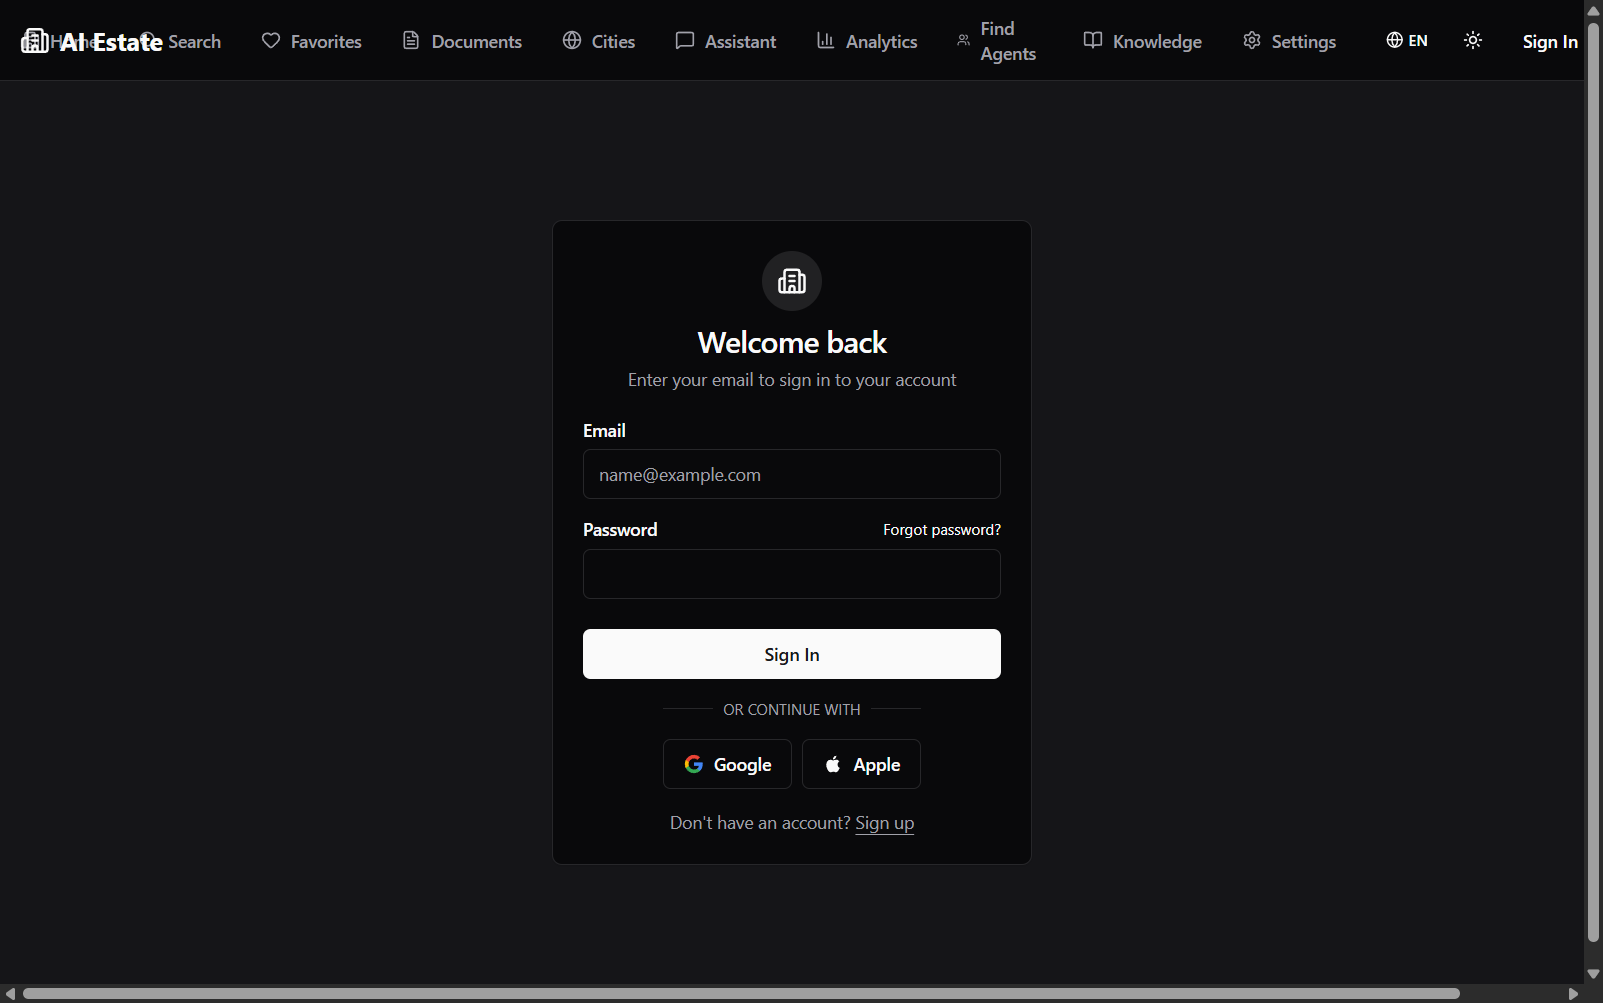
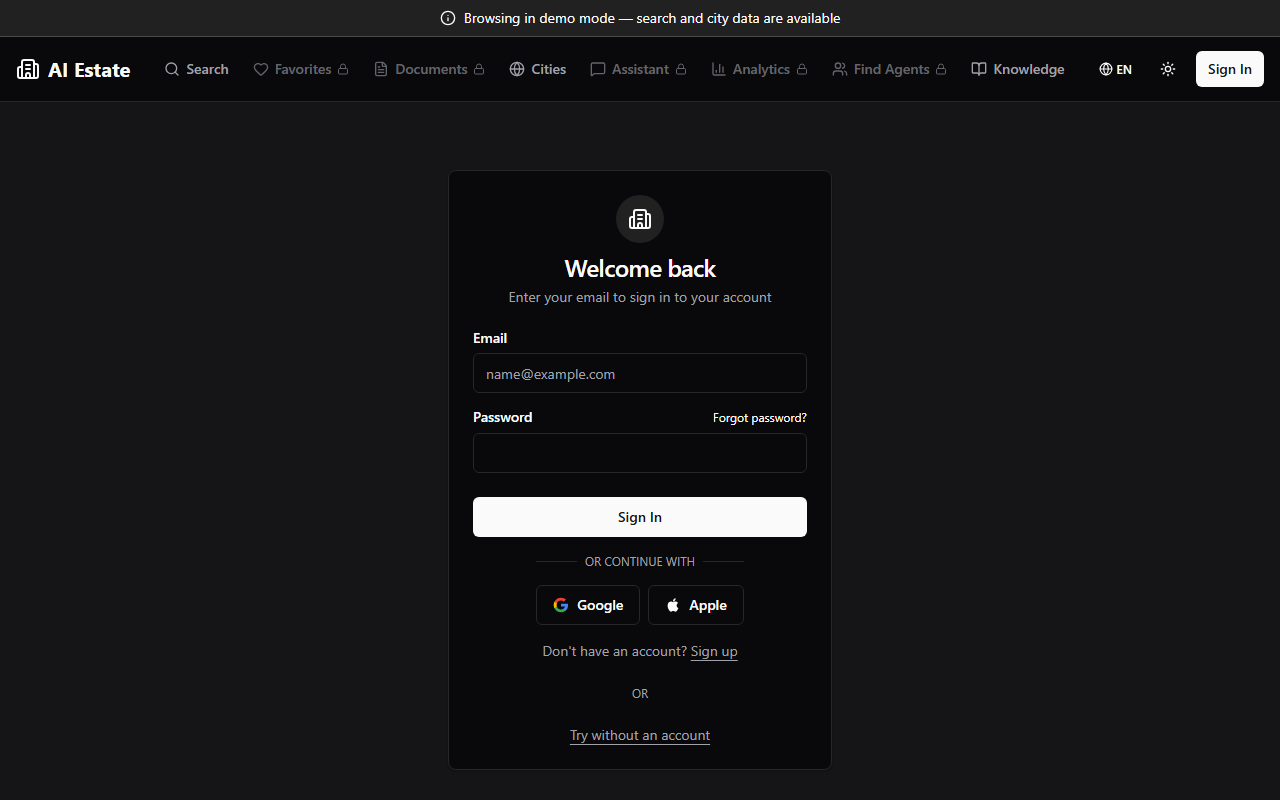
docs: add dark-themed screenshots, fix screenshot script path
Replace old screenshots with new dark-themed captures from staging demo. Fix screenshot script output path. Fix gitignore to allow docs/screenshots/.

diff --git a/scripts/utils/take_screenshots.js b/scripts/utils/take_screenshots.js
@@ -4,7 +4,7 @@ const fs = require("fs");
 
 const BASE = process.argv[2] || "http://localhost:3456";
 const THEME = process.argv[3] || "dark";
-const OUT_DIR = path.join(__dirname, "..", "docs", "screenshots");
+const OUT_DIR = path.join(__dirname, "..", "..", "docs", "screenshots");
 
 const SCREENSHOTS = [
   { name: "home", path: "/", desc: "Landing page" },
